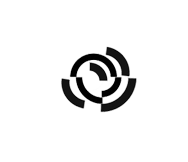
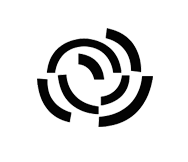
version pre lanzamiento 6 9

Changed region(s): [[0.1862, 0.1543, 0.8245, 0.8025]]

diff --git a/src/App.jsx b/src/App.jsx
@@ -33,14 +33,14 @@ import CloseButton from 'react-bootstrap/CloseButton';
 
 const style = {
   country: {
-    fillColor: "#d8d7fa",
+    fillColor: "#bacbff",
     fillOpacity: 0.6,
     color: "#2b3bcd",
     weight: 0.2,
 
   },
   departamentos: {
-    fillColor: "#d8d7fa",
+    fillColor: "#bacbff",
     fillOpacity: 0,
     color: "black",
     weight: 2,
@@ -53,7 +53,7 @@ const style = {
     ],
   },
   provincias: {
-    fillColor: "#d8d7fa",
+    fillColor: "#bacbff",
     color: "#2b3bcd",
     weight: 2,
     lineColor: "#b2b7f5",
@@ -63,7 +63,7 @@ const style = {
 
 
   rutas: {
-    fillColor: "#d8d7fa",
+    fillColor: "#bacbff",
     color: "#2b3bcd",
     weight: 2,
     lineColor: "white",

diff --git a/src/components/analisis.css b/src/components/analisis.css
@@ -90,7 +90,7 @@ width: 100vw;
 #analisisTextoFinal{
     color: white;
     font-size: 1rem;
-    padding: 0vh 10vw;
+    padding: 0vh 22vw;
     padding-bottom: 2vh;
 
 }
@@ -271,12 +271,14 @@ justify-self: right;
 
     
 #tituloAnalisisRadar{
-        padding-right: 20vw;
+        padding-right: 40vw;
         
     
     }
 
-
+#enConstruccion{
+    padding-top: 5vh;
+}
 
     #analisisDatos{
         grid-template-columns: 1fr 1fr 1fr 1fr 1fr;
@@ -290,5 +292,10 @@ justify-self: right;
     #tituloAnalisis{
         padding-right: 10vw;
         
+    }
+
+    #aclaracionAnalisis{
+        padding-bottom: 5vh;
+
     }
 }

diff --git a/src/components/Markers.jsx b/src/components/Markers.jsx
@@ -14,8 +14,8 @@ export const Markers = ({ data, setPopupInfo, setMarker, selected, tipoFilters }
   useEffect(() => {
     const filteredData = data.filter(event => tipoFilters[event.tipoId]);
     const sortedData = [...filteredData].sort((a, b) => {
-      if (a.tipoId === "t1" && b.tipoId !== "t2") return -1;
-      if (a.tipoId === "t2" && b.tipoId === "t3") return -1;
+      if (a.tipoId === "t3" && b.tipoId !== "t2") return -1;
+      if (a.tipoId === "t2" && b.tipoId === "t1") return -1;
       return 1;
     });
     setFilteredAndSortedData(sortedData);

diff --git a/src/components/analisis.jsx b/src/components/analisis.jsx
@@ -17,7 +17,7 @@ export default function analisis() {
       <div id="analisisHeader">
 
         <div id='analisisTituloSec'>
-          <h4 id='tituloAnalisisRadar'>REGISTRO DE ATAQUES <br /> DE DERECHAS ARGENTINAS RADIZALIZADAS
+          <h4 id='tituloAnalisisRadar'>REGISTRO DE ATAQUES <br /> DE DERECHAS ARGENTINAS RADICALIZADAS
           </h4>
           <h1 id='tituloAnalisis'>RELEVAMIENTO
             2020 - 2023

diff --git a/src/components/conecta.jsx b/src/components/conecta.jsx
@@ -12,7 +12,11 @@ export default function reportaForm() {
 
 
         <><div id="conecta">
+
+
             <div id='contectaTituloContainter'>
+
+             
                 <h1 id='conectaTitulo'>Registro de Ataques de Derechas Argentinas Radicalizadas</h1>
 
             </div>

diff --git a/src/components/conecta.css b/src/components/conecta.css
@@ -4,11 +4,22 @@
 #conecta{
     width: 100vw;
     background-color: #2b3bcd;
+    background-image: url(./fondoNosotrxs.jpg);
     padding: 20vh 5vw;
   
     
 
 }
+
+#logoImgNosotroxs{
+    width: 30vw;
+    height: 70vh;
+
+}
+
+
+
+
 
 #conectaTitulo{
     color: white;

diff --git a/src/components/navbar.jsx b/src/components/navbar.jsx
@@ -16,6 +16,7 @@ export default function NavbarBootstrap() {
 <Navbar.Brand href="#home">
       <Nav.Link href="/">
         <div id="logo">
+          <img id="logoImg" src="logo.png" alt="" />
         </div>
       </Nav.Link>
     </Navbar.Brand>
